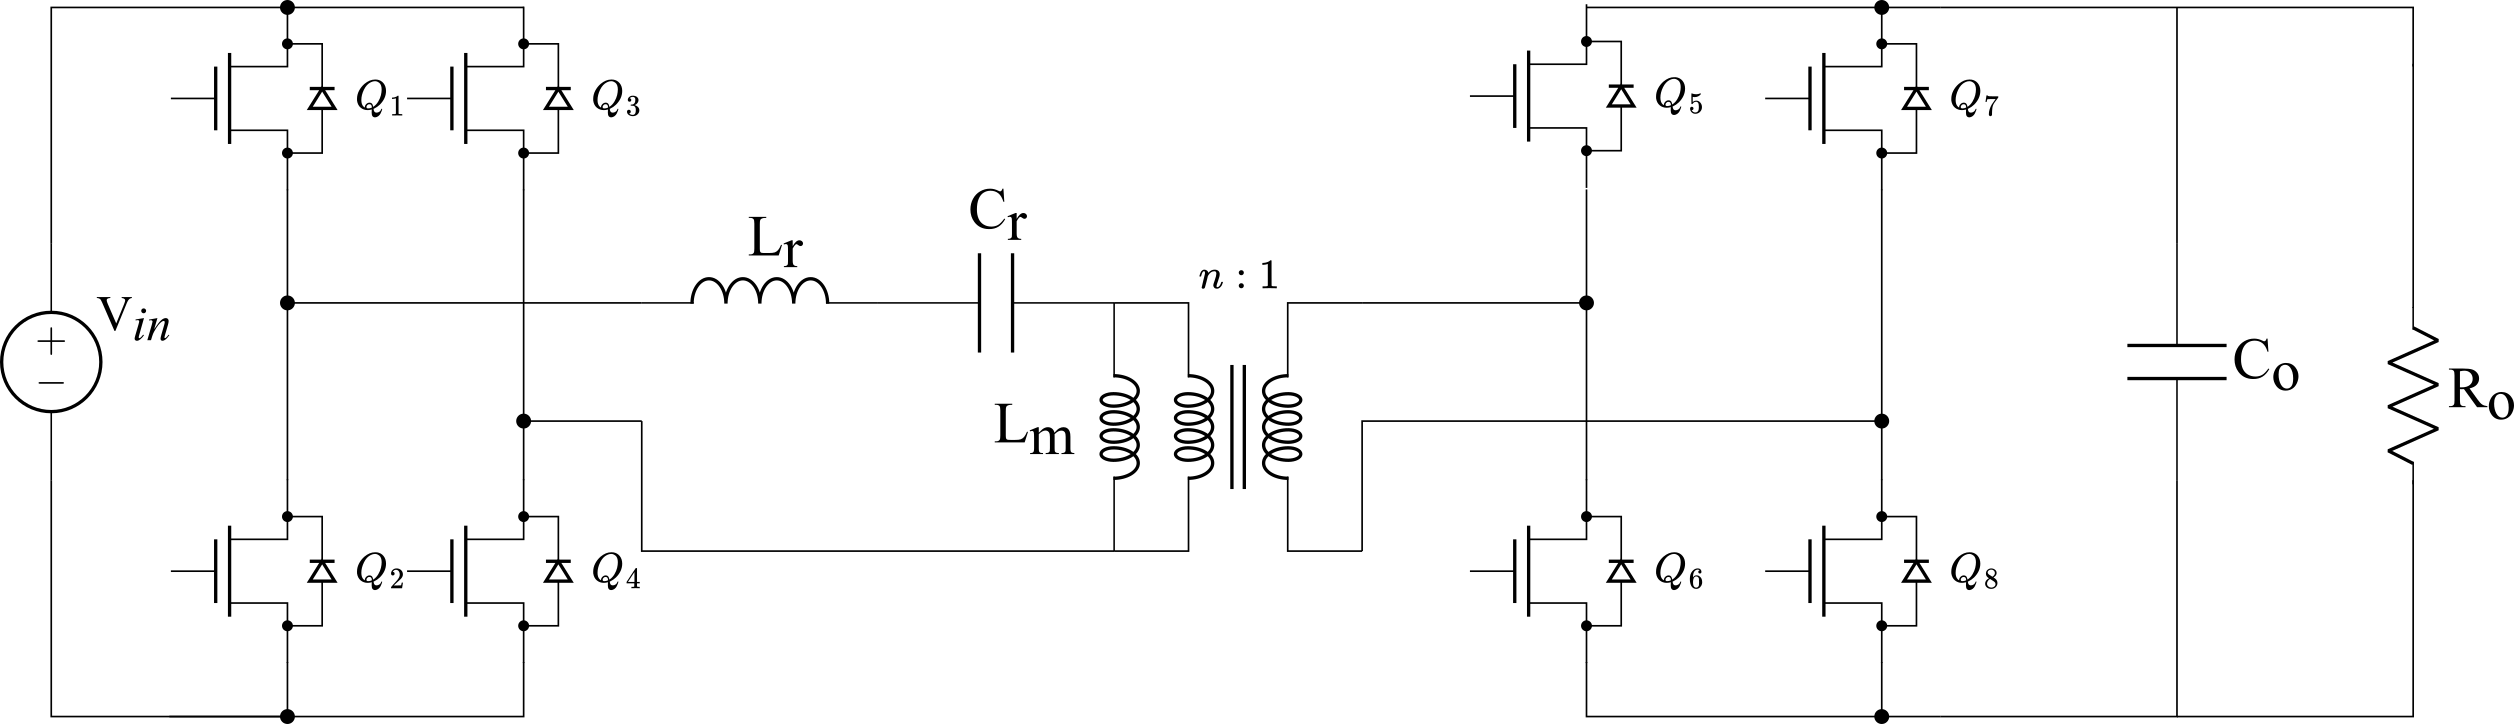
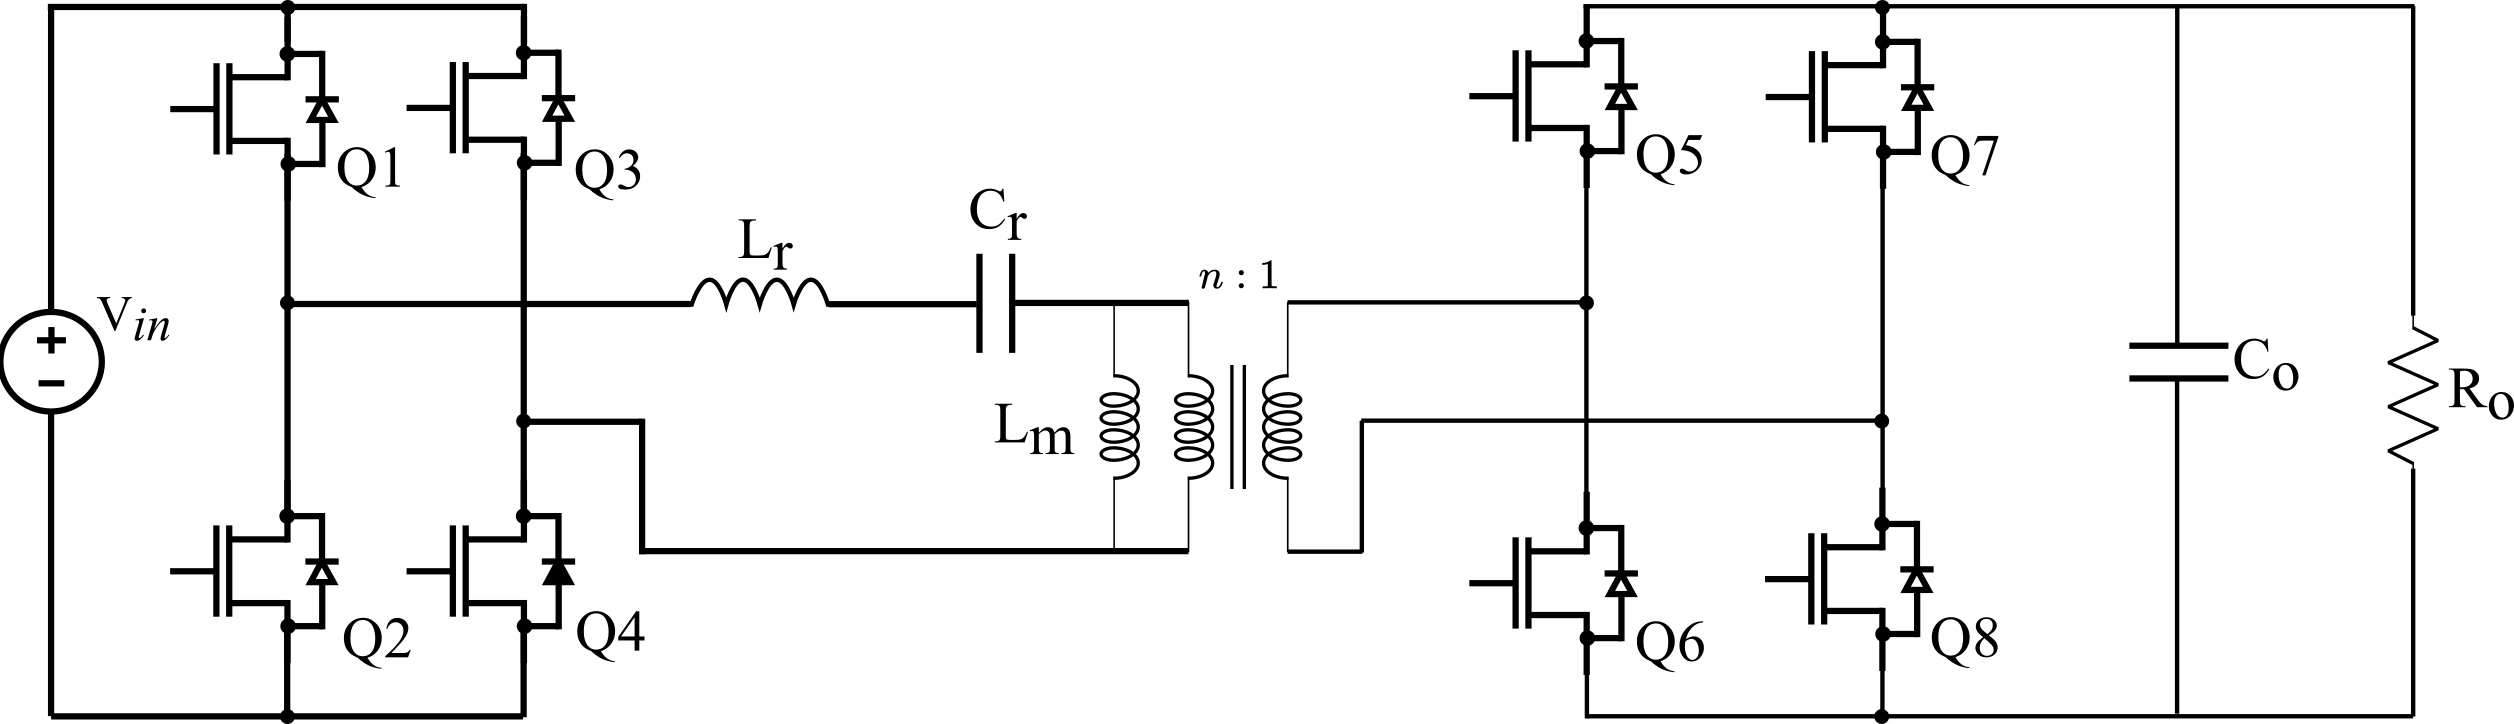
done

diff --git a/sections/3-Data-Driven_Efficiency_Modeling.tex b/sections/3-Data-Driven_Efficiency_Modeling.tex
@@ -9,7 +9,7 @@ Fig.~\ref{fig:workflow} illustrates the proposed data-driven workflow, including
     \label{fig:workflow}
 \end{figure*}
 
-The dataset was generated through large-scale time-domain simulations using a detailed LLC converter model implemented in MATLAB/Simulink. The main operating parameters were systematically varied within predefined ranges, including input voltage ($V_{in}$), output voltage ($V_o$), output power ($P_{out}$), resonant frequency ($f_r$), and quality factor ($Q$). A similar strategy based on simulation-generated datasets has been adopted in prior work \cite{AvilaSaccol2024}.
+The dataset was generated through large-scale time-domain simulations using a detailed LLC converter model implemented in MATLAB/Simulink. The main operating parameters were systematically varied within predefined ranges, including input voltage ($V_{in}$), output voltage ($V_{out}$), output power ($P_{out}$), resonant frequency ($f_r$), and quality factor ($Q$). A similar strategy based on simulation-generated datasets has been adopted in prior work \cite{AvilaSaccol2024}.
 
 For each operating condition, the switching frequency ($f_s$) was swept within a $\pm 1\%$ range around the resonant frequency using seven equally spaced points. This choice focuses the analysis on the region near resonance, where converter efficiency is most sensitive to frequency variations. In total, 4536 scenarios were simulated, generating approximately 10~GB of data.
 
@@ -17,52 +17,51 @@ Each scenario was simulated for 10~ms to ensure steady-state operation. The last
 
 To reduce data dimensionality, time-domain signals were summarized using representative scalar features. RMS values were used for currents and AC voltages, while average values were used for DC quantities such as output voltage and power. This representation preserves the steady-state energy behavior of the converter while enabling efficient model training.
 
-After feature extraction, the dataset contained 4536 samples (approximately 1.249~MB). A preprocessing step was applied to remove outliers and non-physical results, such as efficiencies outside the range $0 \leq \eta \leq 1$. The data was then split into training and testing sets, and all features were normalized to improve numerical stability.
+After feature extraction, the dataset contained 4536 samples (approximately 1.249 MB). A preprocessing stage was performed to remove outliers, non-physical operating points, and inconsistent data entries. Subsequently, the dataset was divided into training and testing subsets, and all features were normalized to improve numerical stability and model convergence.
 
-Machine learning models have been increasingly applied in power electronics for efficiency prediction and design optimization \cite{zhao2019}. In this work, three regression models were evaluated: Multi-Layer Perceptron (MLP), Random Forest (RF), and K-Nearest Neighbors (KNN), representing different learning approaches. The models estimate converter efficiency as a function of the operating conditions, with input vector:
+Machine learning models have been increasingly applied in power electronics for efficiency prediction and design optimization \cite{zhao2019}. In this work, three regression models were evaluated: Multi-Layer Perceptron (MLP), Random Forest (RF), and K-Nearest Neighbors (KNN), representing different learning approaches. The models estimate converter efficiency as a function of the operating conditions, with input vector $\mathbf{x}$ defined as follows:
 
 \begin{align}
-    \mathbf{x} = [V_{in}, V_o, P_{out}, f_s, f_r, Z_r, k, Q]
+    \mathbf{x} = [V_{in}, V_{out}, P_{out}, f_s, f_r, Z_r, k, Q]
 \end{align}
 
+\noindent
 where $Z_r = \sqrt{L_r/C_r}$ and $k = L_m / L_r$.
 
 \subsection{Multilayer Perceptron (MLP)}
 
-The MLP was evaluated as a nonlinear regression baseline. The network consists of two hidden layers with 128 and 64 neurons and uses ReLU activation to capture nonlinear relationships.
+The MLP was evaluated as a nonlinear regression baseline. The network consists of two hidden layers with 128 and 64 neurons and uses ReLU activation to capture nonlinear relationships, as follows:
 
 \begin{align}
 \eta &= f_{\mathrm{MLP}}(\mathbf{x}) \nonumber \\
      &= W_3\,\sigma\!\left(W_2\,\sigma\!\left(W_1 \mathbf{x} + b_1\right) + b_2\right) + b_3
 \end{align}
 
-The model was trained using the Adam optimizer with a learning rate of $10^{-3}$ and early stopping to prevent overfitting.
+\noindent where $\mathbf{x}$ is the input vector, $W_i$ and $b_i$ are the weights and biases of the layers, respectively, $\sigma$ is the ReLU activation function, and $\eta$ is the predicted efficiency. The model was trained using the Adam optimizer with a learning rate of $10^{-3}$ and mean squared error (MSE) loss, while early stopping was employed to prevent overfitting.
 
 \subsection{Random Forest (RF)}
 
-The Random Forest model was selected as the primary model due to its superior performance. It consists of an ensemble of decision trees trained on bootstrapped data with feature randomness, allowing it to capture nonlinear relationships effectively.
+The Random Forest model was selected as the primary model due to its superior performance. It consists of an ensemble of decision trees trained on bootstrapped data with feature randomness, allowing it to capture nonlinear relationships effectively, it can be written as:
 
 \begin{align}
     \eta &= f_{\mathrm{RF}}(\mathbf{x}) = \frac{1}{N} \sum_{i=1}^{N} T_i(\mathbf{x})
 \end{align}
 
-The model was configured with $N = 300$ trees, a maximum depth of 15, and a minimum of 5 samples per split.
+\noindent where $\mathbf{x}$ is the input vector, $T_i(\mathbf{x})$ represents the prediction of the $i$-th decision tree, $N$ is the total number of trees in the ensemble, and $\eta$ is the predicted efficiency obtained from the average of all tree outputs. The model was configured with $N = 300$ trees, a maximum depth of 15, and a minimum of 5 samples per split to improve generalization and reduce overfitting.
 
 \subsection{K Nearest Neighbors (KNN)}
 
-The KNN model was used as a non-parametric baseline. Predictions are obtained by averaging the outputs of the $k$ nearest neighbors in the feature space.
+The KNN model was used as a non-parametric baseline. Predictions are obtained by averaging the outputs of the $k$ nearest neighbors in the feature space. It is represented as:
 
 \begin{align}
     \eta &= f_{\mathrm{KNN}}(\mathbf{x}) = \frac{1}{k} \sum_{i \in \mathcal{N}_k(\mathbf{x})} y_i
 \end{align}
 
-The model was configured with $k = 5$ neighbors.
+\noindent where $\mathbf{x}$ is the input vector, $\mathcal{N}_k(\mathbf{x})$ denotes the set of the $k$ nearest neighbors of $\mathbf{x}$, $y_i$ is the target value associated with the $i$-th neighbor, $k = 5$ is the number of neighbors considered, and $\eta$ is the predicted efficiency obtained from the average of the neighboring samples.
 
 \subsection{Model Performance Evaluation}
 
-Model performance was evaluated using $R^2$, RMSE, and prediction error. While $R^2$ measures goodness-of-fit, RMSE provides an absolute error measure and the prediction error (\%) indicates relative accuracy.
-
-The results are summarized in Table~\ref{tab:model_comparison}.
+Model performance was evaluated using $R^2$, RMSE, and prediction error, where $R^2$ measures goodness-of-fit, RMSE provides an absolute error measure, and prediction error (\%) indicates relative accuracy, as summarized in Table~\ref{tab:model_comparison}.
 
 \begin{table}[!htb]
     \centering
@@ -81,26 +80,24 @@ The results are summarized in Table~\ref{tab:model_comparison}.
 
 The Random Forest model achieved the best performance, significantly outperforming the other models.
 
-Based on these results, the Random Forest model was used to represent converter efficiency:
+Based on these results, the Random Forest model was used to represent converter efficiency, as follows:
 
 \begin{align}
-\eta &= f_{\mathrm{RF}}(V_{in}, V_o, P_{out}, f_s, f_r, Z_r, k, Q)
+    \eta &= f_{\mathrm{RF}}(V_{in}, V_{out}, P_{out}, f_s, f_r, Z_r, k, Q)\text{.}
 \end{align}
 
-This model allows direct evaluation of the design space without requiring iterative time-domain simulations.
-
-To identify optimal operating points, the problem is formulated as the maximization of efficiency under constraints related to resonant operation and impedance matching.
+This model enables direct evaluation of the design space without requiring iterative time-domain simulations, where the optimal operating points are identified by formulating the problem as an efficiency maximization under resonant operation and impedance matching constraints. The optimization problem is defined as follows:
 
 \begin{align}
     J &= \eta - \alpha \frac{|f_r - f_s|}{f_s} - \beta \frac{|Z_r - R_{ac}|}{R_{ac}}
 \end{align}
 
-where $\alpha = 0.3$ and $\beta = 0.5$ balance efficiency and feasibility.
+\noindent where $J$ is the objective function, $\eta$ is the predicted efficiency, $f_r$ is the resonant frequency, $f_s$ is the switching frequency, $Z_r$ is the resonant tank impedance, $R_{ac}$ is the reflected AC load resistance, and $\alpha = 0.3$ and $\beta = 0.5$ are weighting factors associated with the resonant operation and impedance matching penalties, respectively, balancing efficiency and feasibility.
 
 The optimal point is obtained by solving:
 
 \begin{align}
-    \max_{f_s,\,Z_r} \; J
+    \max_{f_s,\,Z_r} \; J \text{.}
 \end{align}
 
 This formulation enables efficient exploration of the design space while maintaining physically meaningful operation.
@@ -112,4 +109,4 @@ This formulation enables efficient exploration of the design space while maintai
     \label{fig:RF_Evaluation}
 \end{figure}
 
-Fig.~\ref{fig:RF_Evaluation} shows strong agreement between predicted and actual efficiency, with the data points closely aligned along the ideal $y = x$ line, confirming the high accuracy and consistency of the model across the operating range.
+Fig.~\ref{fig:RF_Evaluation} shows strong agreement between the AI-predicted and MATLAB-calculated efficiencies, with the data points closely aligned along the ideal $y = x$ line, confirming the high accuracy and consistency of the model across the operating range.

diff --git a/sections/2-LLC_Converter_Design.tex b/sections/2-LLC_Converter_Design.tex
@@ -13,7 +13,7 @@ The chosen circuit schematic can be seen in Figure~\ref{fig:llcsrc}.
 \end{figure}
 
 To generate initial training data for the machine learning model, a converter using this topology was designed using the traditional first harmonic approximation (FHA) method \cite{Jung2007}.
-Under these assumptions, the circuit simplifies to the layout in Fig.~\ref{fig:llcfha-3}
+Under these assumptions, the circuit simplifies to the layout in Fig.~\ref{fig:llcfha-3}.
 
 \begin{figure}[h]
 	\centering
@@ -24,12 +24,16 @@ Under these assumptions, the circuit simplifies to the layout in Fig.~\ref{fig:l
 
 Under the assumption that the first harmonic contributed by the source is dominant, the gain of the converter can be derived as a voltage division between the load resistance in parallel with the transformer magnetizing inductance and the series tank impedance.
 \begin{align}
-	M &= \frac{V_{out}}{V_s}= \left|\frac{Z_{L_m}//R_{AC}} {Z_{L_m} // R_{AC} + Z_{L_r} + Z_{C_r}} \right|\\
+	M &= \frac{V_{out}}{V_{in}}= \left|\frac{Z_{L_m}//R_{AC}} {Z_{L_m} // R_{AC} + Z_{L_r} + Z_{C_r}} \right|\\
 	&= \left| \frac{\left((j\omega L_m)^{-1} + R_{AC}^{-1}\right)^{-1}}{\left((j\omega L_m)^{-1} + R_{AC}^{-1}\right)^{-1} + j\omega L_r - \frac{j}{\omega C_r}} \right|\\
 	&= \frac{f^{\prime^2}k}{\sqrt{\left[(k+1)f^{\prime^2}-1\right]^2+\left[Qkf^\prime(f^{\prime^2}-1)\right]^2}}
 \end{align}
-Such that:
+
+where $M$ is the converter Gain, $Z_{L_m}$ is the magnetizing inductance, $Z_{L_r}$ is the resonant inductance, $Z_{C_r}$ is the resonant capacitance, $f^\prime$ is the normalized frequency, $k$ is the inductance ratio, and $R_{AC}$ is the reflected load resistance, $V_{in}$ is the input voltage, $V_{out}$ is the output voltage, and $Q$ is the quality factor.
+
 \[Q = \frac{\sqrt{L_r/C_r}}{R_{AC}}\quad f^\prime = \frac{f_{sw}}{f_r}\quad k = \frac{L_m}{L_r}\quad R_{AC}=\frac{8n^2}{\pi^2}R\]
+
+where $n$ is the transformer turns ratio, $f_{sw}$ is the switching frequency, $f_r$ is the resonant frequency, and $R$ is the load resistance.
 
 From here, knowing the desired gain, a transformer winding ratio can be chosen to ease the gain required by the resonant tank.
 With a known turns ratio, choose an applicable quality factor "Q" based on anticipated loading and determine the final gain by picking the resonant inductor value.

diff --git a/sections/4-Results_and_Validation.tex b/sections/4-Results_and_Validation.tex
@@ -8,8 +8,6 @@
     
     \begin{tabular}{cc}
         \hline
-        \multicolumn{2}{c}{\textbf{Project Parameters}} \\ 
-        \hline
         Input Voltage ($V_{in}$)        & 600 V          \\ 
         Output Voltage ($V_{out}$)      & 900 V          \\ 
         Power ($P$)                    & 10 kW          \\
@@ -32,9 +30,7 @@ The data-driven design process identified resonant tank parameters that satisfy 
     \renewcommand{\arraystretch}{1.3}
     \begin{tabular}{cc}
         \hline
-        \multicolumn{2}{c}{\textbf{AI-optimized parameters}} \\
-        \hline
-        Resonance Frequency ($f_r$)        & 120 kHz   \\
+        Resonance Frequency ($f_r$)       & 120 kHz   \\
         Resonant Tank Impedance ($Z_R$)   & 29.40 $\Omega$ \\
         $k$                               & 4         \\ 
         Resonant Inductor ($L_r$)         & 38.99 $\mu$H \\

diff --git a/sections/5-Conclusion.tex b/sections/5-Conclusion.tex
@@ -8,4 +8,4 @@ The proposed framework combines data-driven modeling with physical design consid
 
 Simulation results confirmed stable operation, reduced switching losses, and high efficiency levels, supporting both the validity of the design and the accuracy of the proposed approach.
 
-Overall, the methodology provides an efficient way to explore the design space of LLC converters and can be extended to other resonant converter topologies within the range of operating conditions used for training. This approach is limited to the operating conditions covered by the training dataset, and future work will address model generalization under wider operating ranges and experimental validation.
+Overall, the methodology provides an metrics way to explore the design space of LLC converters and can be extended to other resonant converter topologies within the range of operating conditions used for training. This approach is limited to the operating conditions covered by the training dataset, and future work will address model generalization under wider operating ranges and experimental validation.